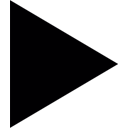
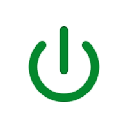
feat: Implement connect and disconnect buttons for MQTT connection

diff --git a/style/style.css b/style/style.css
@@ -133,6 +133,14 @@
   color: #787878;
 }
 
+.home_start_connection {
+  border: none;
+}
+
+.home_start_connection:hover {
+  transform: scale(1.1);
+}
+
 .home_listitem_topic {
   background-color: #ffffff;
   border-radius: 6px;
@@ -143,12 +151,12 @@
   border-left: 4px solid #3498db;
 }
 
-.home_listitem_topic:selected {
+/*.home_listitem_topic:selected {
   background-color: #e3f2fd;
   border-left: 4px solid #1e88e5;
   color: #000000;
   transition: all 0.2ms ease;
-}
+}*/
 
 .home_listitem_topic_label {
   font-family: 'Roboto Mono', monospace;
@@ -249,6 +257,7 @@
   color: #111;
   font-family: monospace;
   font-size: 16px;
+  padding: 5px;
 }
 
 .message_date {

diff --git a/src/ui_home.c b/src/ui_home.c
@@ -67,6 +67,17 @@ void initHomeUI(ST_HomeUI *home_ui){
   gtk_box_append(GTK_BOX(box_right_top), home_ui->label_top_host);
   gtk_widget_set_margin_start(home_ui->label_top_host, 5);
 
+  home_ui->image_start = gtk_image_new_from_file(START_CONNECTION_PATH);
+  gtk_widget_set_size_request(home_ui->image_start, 35, 35);
+  gtk_widget_set_hexpand(home_ui->image_start, TRUE);
+  gtk_widget_set_halign(home_ui->image_start, GTK_ALIGN_END);
+  gtk_widget_set_margin_end(home_ui->image_start, 10);
+  gtk_widget_add_css_class(home_ui->image_start, "home_start_connection");
+  gtk_box_append(GTK_BOX(box_right_top), home_ui->image_start);
+  home_ui->gesture_start = gtk_gesture_click_new();
+  gtk_widget_add_controller(home_ui->image_start, GTK_EVENT_CONTROLLER(home_ui->gesture_start));
+  g_signal_connect(home_ui->gesture_start, "pressed", G_CALLBACK(startConnection), home_ui);
+
   GtkWidget *box_right_bottom = gtk_box_new(GTK_ORIENTATION_HORIZONTAL, 10);
   gtk_box_append(GTK_BOX(box_right), box_right_bottom);
   
@@ -109,12 +120,12 @@ void initHomeUI(ST_HomeUI *home_ui){
   GtkTextBuffer *buffer = gtk_text_view_get_buffer(GTK_TEXT_VIEW(home_ui->entry_payload));
   gtk_text_buffer_set_text(buffer, "Hello", -1);
   gtk_widget_add_css_class(home_ui->entry_payload, "home_entry_payload");
-  home_ui->scrolled_message = gtk_scrolled_window_new();
-  gtk_widget_set_hexpand(home_ui->scrolled_message, TRUE);
-  gtk_widget_set_vexpand(home_ui->scrolled_message, TRUE);
-  gtk_widget_add_css_class(home_ui->scrolled_message, "home_scrolled_entry");
-  gtk_scrolled_window_set_child(GTK_SCROLLED_WINDOW(home_ui->scrolled_message), home_ui->entry_payload);
-  gtk_box_append(GTK_BOX(box_payload), home_ui->scrolled_message);
+  home_ui->scrolled_send = gtk_scrolled_window_new();
+  gtk_widget_set_hexpand(home_ui->scrolled_send, TRUE);
+  gtk_widget_set_vexpand(home_ui->scrolled_send, TRUE);
+  gtk_widget_add_css_class(home_ui->scrolled_send, "home_scrolled_entry");
+  gtk_scrolled_window_set_child(GTK_SCROLLED_WINDOW(home_ui->scrolled_send), home_ui->entry_payload);
+  gtk_box_append(GTK_BOX(box_payload), home_ui->scrolled_send);
 
   home_ui->image = gtk_image_new_from_file(SEND_PAYLOAD_PATH);
   gtk_widget_set_size_request(home_ui->image, 35, 35);
@@ -185,12 +196,57 @@ void sendPayload(GtkGestureClick *gesture, int n_press, double x, double y, gpoi
   gtk_text_buffer_get_end_iter(buffer, &end);
   
   char *payload = gtk_text_buffer_get_text(buffer, &start, &end, FALSE);
-  struct mosquitto *mosq = connectMQTT(home_ui, home_ui->connection, home_ui->topic);
-  if(!mosq){
+  if(home_ui->mosq){
+    publishMQTT(home_ui->mosq, home_ui->topic, home_ui, payload);
+  }
+
+  free(payload);
+}
+
+void startConnection(GtkGestureClick *gesture, int n_press, double x, double y, gpointer user_data){
+  ST_HomeUI *home_ui = (ST_HomeUI *)user_data;
+  
+  home_ui->mosq = connectMQTT(home_ui, home_ui->connection, home_ui->topic);
+  if(!home_ui->mosq){
     return;
   }
-  publishMQTT(mosq, home_ui->topic, home_ui, payload);
+  gtk_image_set_from_file(GTK_IMAGE(home_ui->image_start), STOP_CONNECTION_PATH);
 
-  //disconnectMQTT(mosq);
-  free(payload);
+  g_signal_handlers_disconnect_by_func(home_ui->gesture_start, G_CALLBACK(startConnection), home_ui);
+
+  g_signal_connect(home_ui->gesture_start, "pressed", G_CALLBACK(stopConnection), home_ui);
+}
+
+void stopConnection(GtkGestureClick *gesture, int n_press, double x, double y, gpointer user_data){
+  ST_HomeUI *home_ui = (ST_HomeUI *)user_data;
+
+  disconnectMQTT(&home_ui->mosq);
+  if(home_ui->mosq != NULL){
+    g_print("Entrou 1 \n");
+    return;
+  }
+  gtk_image_set_from_file(GTK_IMAGE(home_ui->image_start), START_CONNECTION_PATH);
+ 
+  g_signal_handlers_disconnect_by_func(home_ui->gesture_start, G_CALLBACK(stopConnection), home_ui);
+  
+ g_signal_connect(home_ui->gesture_start, "pressed", G_CALLBACK(startConnection), home_ui);
+}
+
+gboolean updateMessageUI(gpointer user_data){
+  ST_MessageData *message_data = (ST_MessageData *)user_data;
+  if(!g_utf8_validate(message_data->payload, -1, NULL)){
+    return FALSE;
+  }
+
+  receiveMessage(message_data->home_ui, message_data->topic, message_data->payload);
+  
+  return G_SOURCE_REMOVE;
+}
+
+void destroyMessageData(gpointer user_data){
+  ST_MessageData *message_data = (ST_MessageData *)user_data;
+  
+  free(message_data->topic);
+  free(message_data->payload);
+  free(message_data);
 }

diff --git a/src/widgets.c b/src/widgets.c
@@ -57,8 +57,8 @@ void receiveMessage(ST_HomeUI *home_ui, const char *topic, const char *payload){
   GtkWidget *box_out = gtk_box_new(GTK_ORIENTATION_VERTICAL, 10);
   GtkWidget *label = gtk_label_new(NULL);
 
-  char *header = malloc(strlen(topic) + 7);
-  sprintf(header, "Tópico: %s", topic);
+  char *header = malloc(strlen(topic) + strlen("Tópico: ") + 1);
+  snprintf(header, strlen(topic) + strlen("Tópico: ") + 1, "Tópico: %s", topic);
   gtk_label_set_text(GTK_LABEL(label), header);
   gtk_label_set_xalign(GTK_LABEL(label), 0.0);
   gtk_widget_add_css_class(label, "message_topic_received");
@@ -66,6 +66,8 @@ void receiveMessage(ST_HomeUI *home_ui, const char *topic, const char *payload){
 
   label = gtk_label_new(payload);
   gtk_label_set_xalign(GTK_LABEL(label), 0.0);
+  gtk_widget_set_hexpand(label, FALSE);
+  gtk_widget_set_vexpand(label, FALSE);
   gtk_widget_add_css_class(label, "message_payload_received");
   gtk_box_append(GTK_BOX(box_in), label);
 
@@ -83,5 +85,15 @@ void receiveMessage(ST_HomeUI *home_ui, const char *topic, const char *payload){
   gtk_widget_set_margin_end(box_out, 20);
   gtk_box_append(GTK_BOX(home_ui->message_box), box_out);
 
+  scrollToBottom(GTK_SCROLLED_WINDOW(home_ui->scrolled_message));
+
   free(header);
+  free(date);
+}
+
+void scrollToBottom(GtkScrolledWindow *scrolled){
+  GtkAdjustment *adjustment = gtk_scrolled_window_get_vadjustment(scrolled);
+  double max_value = gtk_adjustment_get_upper(adjustment) - gtk_adjustment_get_page_size(adjustment);
+
+  gtk_adjustment_set_value(adjustment, max_value);
 }

diff --git a/src/mqtt.c b/src/mqtt.c
@@ -39,7 +39,13 @@ struct mosquitto *connectMQTT(ST_HomeUI *home_ui, STMQTTConnection *connection, 
 
 void receiveMQTT(struct mosquitto *mosq, void *userdata, const struct mosquitto_message *msg){
   ST_HomeUI *home_ui = (ST_HomeUI *)userdata;
-  receiveMessage(home_ui, msg->topic, msg->payload);
+
+  ST_MessageData *message_data = malloc(sizeof(ST_MessageData));
+  message_data->home_ui = home_ui;
+  message_data->payload = strndup(msg->payload, msg->payloadlen);
+  message_data->topic = strdup(msg->topic);
+  
+  g_idle_add_full(G_PRIORITY_DEFAULT_IDLE, (GSourceFunc)updateMessageUI, message_data, destroyMessageData);
 }
 
 void publishMQTT(struct mosquitto *mosq, STMQTTTopic *topic, ST_HomeUI *home_ui, const char *payload){
@@ -53,11 +59,12 @@ void publishMQTT(struct mosquitto *mosq, STMQTTTopic *topic, ST_HomeUI *home_ui,
   }
 }
 
-void disconnectMQTT(struct mosquitto *mosq){
-  if(mosq){
-    mosquitto_loop_stop(mosq, true);
-    mosquitto_disconnect(mosq);
-    mosquitto_destroy(mosq);
+void disconnectMQTT(struct mosquitto **mosq){
+  if(*mosq){
+    mosquitto_loop_stop(*mosq, true);
+    mosquitto_disconnect(*mosq);
+    mosquitto_destroy(*mosq);
+    *mosq = NULL;
   }
   mosquitto_lib_cleanup();
 }

diff --git a/inc/ui_home.h b/inc/ui_home.h
@@ -6,6 +6,7 @@
 #include "topic.h"
 #include "json_utils.h"
 #include "mqtt.h"
+#include <mosquitto.h>
 
 typedef struct _ST_HomeUI{
   GtkWidget *main_box;
@@ -25,16 +26,29 @@ typedef struct _ST_HomeUI{
   GListStore *connection_store;
   GListStore *topics_store;
   GtkWidget *scrolled_message;
+  GtkWidget *scrolled_send;
   GtkWidget *message_box;
   GtkWidget *entry_payload;
+  GtkWidget *image_start;
   GtkWidget *image;
   GtkGesture *gesture_send;
   GtkGesture *gesture_start;
   STMQTTConnection *connection;
   STMQTTTopic *topic;
+  struct mosquitto *mosq;
 }ST_HomeUI;
+
+typedef struct {
+  ST_HomeUI *home_ui;
+  char *topic;
+  char *payload;
+}ST_MessageData;
 
 void initHomeUI(ST_HomeUI *home_ui);
 void sendPayload(GtkGestureClick *gesture, int n_press, double x, double y, gpointer user_data);
+void startConnection(GtkGestureClick *gesture, int n_press, double x, double y, gpointer user_data);
+void stopConnection(GtkGestureClick *gesture, int n_press, double x, double y, gpointer user_data);
+gboolean updateMessageUI(gpointer user_data);
+void destroyMessageData(gpointer user_data);
 
 #endif

diff --git a/src/ui_app.c b/src/ui_app.c
@@ -101,7 +101,7 @@ void switchToHome(GtkButton *button, gpointer user_data){
   gtk_image_set_from_file(GTK_IMAGE(app_ui->top_box.button_switch.image), NAV_CONNECTION_PATH);
   gtk_widget_set_size_request(app_ui->top_box.button_switch.image, 24, 24);
   gtk_widget_set_margin_end(app_ui->top_box.button_switch.button, 40);
-  gtk_label_set_text(GTK_LABEL(app_ui->top_box.button_switch.label), "CONNECTAR");
+  gtk_label_set_text(GTK_LABEL(app_ui->top_box.button_switch.label), "CONECTAR");
 
   g_signal_handlers_disconnect_by_func(app_ui->top_box.button_switch.button, switchToHome, app_ui);
 

diff --git a/inc/mqtt.h b/inc/mqtt.h
@@ -12,6 +12,6 @@ typedef struct _ST_HomeUI ST_HomeUI;
 struct mosquitto *connectMQTT(ST_HomeUI *home_ui, STMQTTConnection *connection, STMQTTTopic *topic);
 void receiveMQTT(struct mosquitto *mosq, void *userdata, const struct mosquitto_message *msg);
 void publishMQTT(struct mosquitto *mosq, STMQTTTopic *topic, ST_HomeUI *home_ui, const char *payload);
-void disconnectMQTT(struct mosquitto *mosq);
+void disconnectMQTT(struct mosquitto **mosq);
 
 #endif

diff --git a/inc/widgets.h b/inc/widgets.h
@@ -17,5 +17,6 @@ typedef struct _ST_HomeUI ST_HomeUI;
 void createButtonWithImageLabel(ST_BUTTON *button, const char *pathToImage, const char *textButton);
 void sendMessage(STMQTTTopic *topic, ST_HomeUI *home_ui, const char *payload);
 void receiveMessage(ST_HomeUI *home_ui, const char *topic, const char *payload);
+void scrollToBottom(GtkScrolledWindow *scrolled);
 
 #endif 
